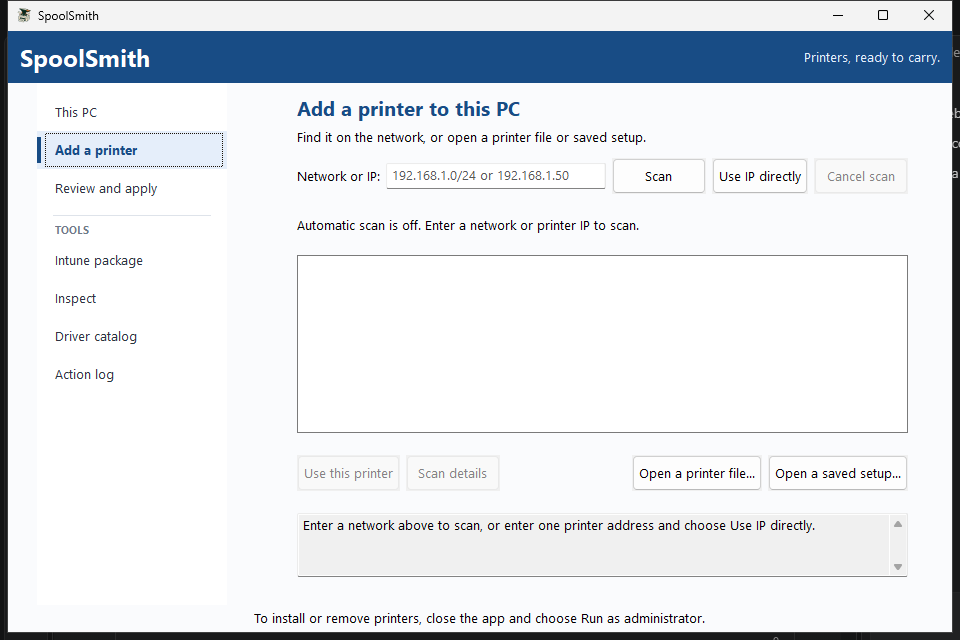
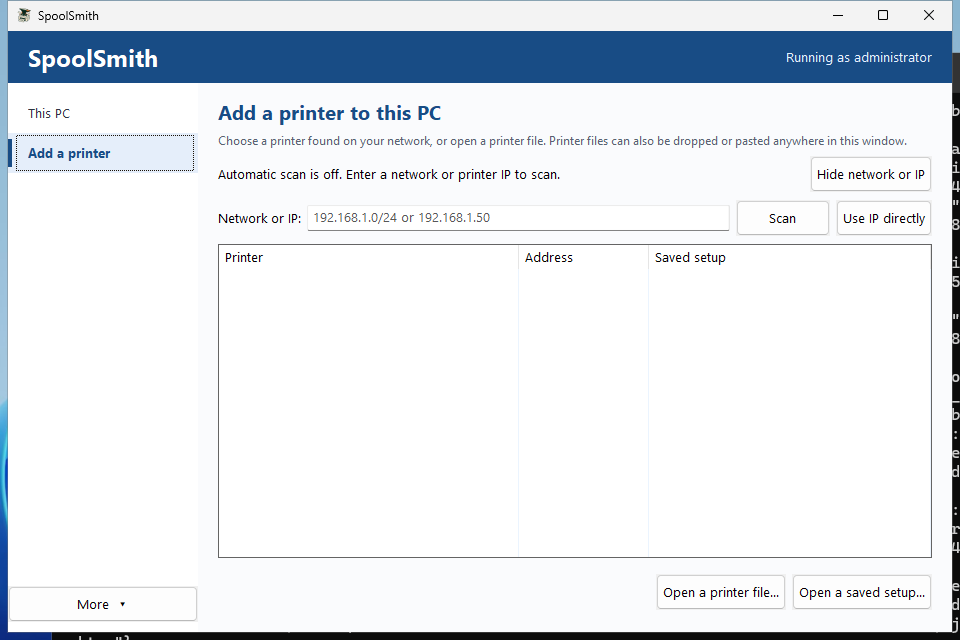
Ship v1.3.0: double-click to install
Release notes, the v1.3.0 validation record (CI desktop suite plus the
operator's hands-on checks), VERSION, and the website: hero, New in 1.3,
the apply sheet as the lead screenshot, refreshed This PC, Add a printer,
Inspect and Intune page captures, and copy that matches the new desktop --
double-click, drop, Ctrl+C/Ctrl+V, the shield button, More.

diff --git a/docs/index.html b/docs/index.html
@@ -5,9 +5,9 @@
   <meta name="viewport" content="width=device-width, initial-scale=1">
   <meta name="description" content="Copy a working printer from one Windows PC to another, or find one on the network and save its settings. SpoolSmith is a command-line tool and desktop app that makes everyday printer mapping repeatable.">
   <meta property="og:title" content="SpoolSmith — A little less printer setup.">
-  <meta property="og:description" content="One PC already prints. Copy that setup to the next one — driver included — after reviewing exactly what will change.">
+  <meta property="og:description" content="One PC already prints. Copy it off as one file, driver included — then double-click it on the next PC, review every step, and confirm once.">
   <meta property="og:url" content="https://spilloid.github.io/spoolsmith/">
-  <meta property="og:image" content="https://spilloid.github.io/spoolsmith/img/gui-this-pc.png">
+  <meta property="og:image" content="https://spilloid.github.io/spoolsmith/img/gui-review-and-apply.png">
   <meta name="theme-color" content="#163d38">
   <link rel="icon" href="favicon.ico" sizes="16x16 32x32 48x48">
   <link rel="icon" type="image/png" href="img/icon-192.png" sizes="192x192">
@@ -27,10 +27,10 @@
       <div class="hero-copy">
         <p class="eyebrow"><span class="status-dot"></span>Printer setup, ready to repeat</p>
         <h1 id="hero-title">A little less<br>printer <em>setup.</em></h1>
-        <p class="hero-lead">One PC already prints.<br>Let the next one copy it.</p>
-        <p class="hero-description">Copy a working printer from one Windows PC to another — driver included — or find one on the network and save its settings. Review the plan before SpoolSmith changes your Windows printers.</p>
-        <div class="actions"><a class="button primary" href="https://github.com/spilloid/spoolsmith/releases/download/v1.2.0/spoolsmith-v1.2.0-windows-amd64.zip">Download for Windows <span aria-hidden="true">↓</span></a><a class="text-link" href="#app">See the app <span aria-hidden="true">↓</span></a></div>
-        <p class="hero-meta">v1.2.0 · Windows x64 · Portable ZIP · Signed · MIT licensed</p><a class="release-link" href="https://github.com/spilloid/spoolsmith/releases/tag/v1.2.0">Release notes &amp; SHA-256 checksum <span aria-hidden="true">↗</span></a>
+        <p class="hero-lead">One PC already prints.<br>Double-click to give it to the next.</p>
+        <p class="hero-description">Copy a working printer off one Windows PC — driver included — as a single file. On the next PC, double-click it, drop it on SpoolSmith or paste it in. You see every step before anything changes, and confirm once.</p>
+        <div class="actions"><a class="button primary" href="https://github.com/spilloid/spoolsmith/releases/download/v1.3.0/spoolsmith-v1.3.0-windows-amd64.zip">Download for Windows <span aria-hidden="true">↓</span></a><a class="text-link" href="#app">See the app <span aria-hidden="true">↓</span></a></div>
+        <p class="hero-meta">v1.3.0 · Windows x64 · Portable ZIP · Signed · MIT licensed</p><a class="release-link" href="https://github.com/spilloid/spoolsmith/releases/tag/v1.3.0">Release notes &amp; SHA-256 checksum <span aria-hidden="true">↗</span></a>
       </div>
       <figure class="printer-scene" aria-label="Illustration: one copied Office Printer bundle can be reused on another workstation.">
         <div class="scene-grid" aria-hidden="true"></div>
@@ -50,54 +50,50 @@
           <circle cx="248" cy="242" r="13" fill="#e1edce"/>
           <path d="m242 241 4 5 8-9" fill="none" stroke="#285645" stroke-width="2.5"/>
         </svg>
-        <div class="saved-card"><span class="file-icon" aria-hidden="true">.ssb</span><div><strong>office-printer.ssb</strong><span>Settings + optional driver files.</span></div><span class="saved-check" aria-hidden="true">✓</span></div>
-        <figcaption><span class="status-dot"></span>Save once. Bring it to the next PC.</figcaption>
+        <div class="saved-card"><span class="file-icon" aria-hidden="true">.ssb</span><div><strong>office-printer.ssb</strong><span>Double-click to install.</span></div><span class="saved-check" aria-hidden="true">✓</span></div>
+        <figcaption><span class="status-dot"></span>Copy it once. Double-click it anywhere.</figcaption>
       </figure>
     </section>
     <div class="proof wrap"><span class="proof-icon" aria-hidden="true">✓</span><p><strong>Tested on real HP and Sharp printers.</strong> Works with any network printer that has a standard Windows driver.</p><a href="#status">What’s supported <span aria-hidden="true">↗</span></a></div>
     <section class="release-summary wrap" aria-labelledby="release-title">
-      <div><p class="eyebrow">New in 1.1</p><h2 id="release-title">A smoother setup.<br>Even before the printer is ready.</h2></div>
-      <ul><li><strong>One printer file, one set.</strong> A .ssb is one printer; a plain .zip of .ssb files carries several. Copy all printers writes one set, and each printer in it is reviewed and confirmed on its own.</li><li><strong>Drivers come along.</strong> Copies include each printer’s driver whenever it can be exported, and say why when it can’t. Choose settings only if you manage drivers yourself.</li><li><strong>Keep moving offline.</strong> Save an unreachable queue, and set up a saved printer before it comes online. The plan says when it fell back to offline setup.</li><li><strong>Clearer choices.</strong> Copying without administrator access still works and saves settings only; the app says when a driver needs elevation.</li><li><strong>Easier to find your way.</strong> A sidebar replaces the desktop’s tabs, Intune packaging has its own page, and its wizard now runs in two clear steps.</li></ul>
+      <div><p class="eyebrow">New in 1.3</p><h2 id="release-title">Double-click to install.<br>Ctrl+C to take it with you.</h2></div>
+      <ul><li><strong>Printer files open like documents.</strong> Double-click a .ssb, drop it on the window or on spoolsmith-gui.exe, or copy it in Explorer and press Ctrl+V. It opens straight onto one review sheet.</li><li><strong>One sheet, every step.</strong> The sheet shows where the printer came from, anything to know first, and the exact steps it will take — prepared the moment it opens. The full plan is one click away under Details.</li><li><strong>Ctrl+C a printer.</strong> Select printers on This PC and press Ctrl+C, then paste the .ssb files into a folder, a share or a chat. Or select several and save them as one set.</li><li><strong>No more “restart as administrator”.</strong> The Install button carries the Windows shield. Windows asks, SpoolSmith reopens on the same printer, and you confirm the plan there.</li><li><strong>Notes for the ticket.</strong> When it finishes, one button copies a plain-text summary of what changed, ready to paste into your ticket.</li><li><strong>Two places, not seven.</strong> The sidebar is This PC and Add a printer. Intune packaging, Inspect, the action log and saved setups sit under More.</li></ul>
     </section>
     <section id="app" class="app-section" aria-labelledby="app-title"><div class="wrap">
-      <div class="section-heading"><div><p class="eyebrow"><span class="status-dot"></span>The desktop app</p><h2 id="app-title">Your printers.<br>Ready to <em>carry.</em></h2></div><p>See what Windows already has, copy a working setup to another PC, or find a new printer. A sidebar lists every page in the order the work happens, with the tools set apart below.</p></div>
+      <div class="section-heading"><div><p class="eyebrow"><span class="status-dot"></span>The desktop app</p><h2 id="app-title">Your printers.<br>Ready to <em>carry.</em></h2></div><p>Two places to go: This PC, to take printers off this computer, and Add a printer, to put them on. Every change opens one review sheet, and nothing happens until you confirm it.</p></div>
       <figure class="shot">
-        <img src="img/gui-this-pc.png" alt="SpoolSmith This PC page. A sidebar lists This PC, Add a printer and Review and apply, then Tools: Intune package, Inspect, Driver catalog and Action log. The printer list is loading, with Copy all printers, Copy to a file, Change address and Remove printer actions." width="960" height="640" loading="lazy" decoding="async">
-        <figcaption><span class="status-dot"></span>Every page one click away. This PC reads Windows’ printers and explains when one cannot be copied.</figcaption>
+        <img src="img/gui-review-and-apply.png" alt="SpoolSmith's apply sheet for a printer file named Front Office Copier: its address and driver, that it was copied from FRONTDESK-01, two notes to know first, and the steps it will take — create port 192.0.2.40 and create the printer. The main button reads Install as administrator with the Windows shield." width="960" height="640" loading="lazy" decoding="async">
+        <figcaption><span class="status-dot"></span>Double-click a printer file and this is what opens: where it came from, what to know, and exactly what will change. One confirmation.</figcaption>
       </figure>
       <div class="shot-grid">
         <figure class="shot">
-          <a href="img/gui-add-printer.png"><img src="img/gui-add-printer.png" alt="Add a printer page with a network or IP field, Scan and Use IP directly buttons, and buttons to open a printer file or a saved setup." width="960" height="640" loading="lazy" decoding="async"></a>
-          <figcaption><h3>Start with the address or the file</h3><p>Scan the network, enter a known IP, or open a printer file. A printer set lists its printers so you can set each one up in turn.</p></figcaption>
+          <a href="img/gui-this-pc.png"><img src="img/gui-this-pc.png" alt="This PC page: a table of the printers Windows has, with columns for printer, address, driver and whether it can be copied. Printers SpoolSmith can't copy are greyed. The sidebar lists This PC and Add a printer, with More below." width="960" height="640" loading="lazy" decoding="async"></a>
+          <figcaption><h3>Take printers off this PC</h3><p>Select one or several and copy them to a file or a set — or press Ctrl+C and paste them into Explorer. Printers that can’t be copied, like Print to PDF, are greyed with the reason.</p></figcaption>
+        </figure>
+        <figure class="shot">
+          <a href="img/gui-add-printer.png"><img src="img/gui-add-printer.png" alt="Add a printer page with a table for printers found on the network, a field for a network or IP address, and buttons to open a printer file or a saved setup." width="960" height="640" loading="lazy" decoding="async"></a>
+          <figcaption><h3>Or find one on the network</h3><p>The network the PC is on is scanned as soon as SpoolSmith starts. Pick a printer, or scan a different network or one address. A printer set opens as a list, and each printer gets its own review.</p></figcaption>
         </figure>
         <figure class="shot">
           <a href="img/gui-saved-setups.png"><img src="img/gui-saved-setups.png" alt="Saved printer setups dialog listing an example setup and its details, with Set up this printer, Update to match, Check status, Remove, Edit, Export all and Import all buttons." width="720" height="420" loading="lazy" decoding="async"></a>
-          <figcaption><h3>Keep a library of setups</h3><p>Set a printer up again, update a queue to match, edit with a backup, or check local status. Export and import the whole library, drivers included, as one .zip set.</p></figcaption>
+          <figcaption><h3>Keep a library of setups</h3><p>Under More: set a printer up again, update a queue to match, edit with a backup, or check local status. Export and import the whole library, drivers included, as one .zip set.</p></figcaption>
         </figure>
         <figure class="shot">
-          <a href="img/gui-review-and-apply.png"><img src="img/gui-review-and-apply.png" alt="Review and apply page, with Apply disabled until a change has been previewed." width="960" height="640" loading="lazy" decoding="async"></a>
-          <figcaption><h3>Review before changing Windows</h3><p>Preview the change, inspect the full plan, then confirm. Changed options invalidate the preview; changed plans are rejected at execution.</p></figcaption>
-        </figure>
-        <figure class="shot">
-          <a href="img/gui-tools.png"><img src="img/gui-tools.png" alt="Inspect page with a field for an IP, fixture or .ssb file, noting that nothing is installed." width="960" height="640" loading="lazy" decoding="async"></a>
-          <figcaption><h3>Keep the evidence close</h3><p>Inspect a printer or verify a copied .ssb without changing Windows. The driver catalog and action log sit beside it under Tools.</p></figcaption>
+          <a href="img/gui-tools.png"><img src="img/gui-tools.png" alt="Inspect page with a field for an IP address, a printer file or a printer set, noting that nothing is installed." width="960" height="640" loading="lazy" decoding="async"></a>
+          <figcaption><h3>Look inside a printer file</h3><p>Inspect a .ssb or a set without applying it: every printer, its driver and where it came from. The action log sits beside it under More.</p></figcaption>
         </figure>
         <figure class="shot">
           <a href="img/gui-intune-wizard.png"><img src="img/gui-intune-page.png" alt="Package a printer for Intune page explaining the local-only packaging, with a Build an Intune printer app button." width="960" height="640" loading="lazy" decoding="async"></a>
           <figcaption><h3>Package it for Intune, locally</h3><p>A two-step wizard: choose the settings, then validate and review before export. It writes install, uninstall and detection scripts, and creates the .intunewin when Microsoft’s IntuneWinAppUtil.exe sits beside SpoolSmith. No tenant sign-in; upload and assignment stay in your hands.</p></figcaption>
-        </figure>
-        <figure class="shot">
-          <a href="img/gui-copy-all.png"><img src="img/gui-copy-all.png" alt="Copy all printers dialog with a Save set as .zip name, an optional note, a checked Include drivers where possible box and a preview of which printers will be copied or skipped and why." width="720" height="480" loading="lazy" decoding="async"></a>
-          <figcaption><h3>Copy every printer at once</h3><p>Save every supported queue into one .zip set, one .ssb per printer, drivers included where possible. Stopping saves nothing; the results copy as plain text into a ticket.</p></figcaption>
         </figure>
       </div>
     </div></section>
     <section id="workflow" class="section wrap" aria-labelledby="workflow-title">
       <div class="section-heading"><div><p class="eyebrow">From this PC to the next</p><h2 id="workflow-title">Three steps.<br>One familiar printer.</h2></div><p>Keep a working setup in a file you control. No account, hosted service, or printer management server required.</p></div>
       <div class="steps">
-        <article><span class="step-number">01 / COPY</span><h3>Start where it works.</h3><p>In <strong>This PC</strong>, select a supported network queue and copy it to an <code>.ssb</code> file. Its driver comes along whenever it can be exported.</p><span class="step-detail">Run as administrator to include driver files</span></article>
-        <article><span class="step-number">02 / OPEN</span><h3>Bring it to the next PC.</h3><p>Move the file and SpoolSmith to the destination. In <strong>Add a printer</strong>, open the copied printer file. The bundle keeps its saved settings and optional driver payload together.</p><span class="step-detail">No installer needed for SpoolSmith itself</span></article>
-        <article><span class="step-number">03 / REVIEW</span><h3>See the plan. Then apply.</h3><p>Review the queue, address and driver before confirming. SpoolSmith reuses matching settings, so applying the same setup again does not create a duplicate queue.</p><span class="step-detail">Administrator access required to apply changes</span></article>
+        <article><span class="step-number">01 / COPY</span><h3>Start where it works.</h3><p>In <strong>This PC</strong>, select a network printer and press <strong>Ctrl+C</strong> — or <strong>Copy 1 printer...</strong> to save it somewhere. Its driver comes along whenever it can be exported.</p><span class="step-detail">Drivers need administrator; without it, settings only, and it says why</span></article>
+        <article><span class="step-number">02 / OPEN</span><h3>Double-click it on the next PC.</h3><p>Paste the <code>.ssb</code> wherever you move files, then double-click it on the destination — or drop it on SpoolSmith, or copy it and press <strong>Ctrl+V</strong> in the app. Settings and driver travel together.</p><span class="step-detail">No installer needed for SpoolSmith itself</span></article>
+        <article><span class="step-number">03 / REVIEW</span><h3>See every step. Confirm once.</h3><p>The sheet lists exactly what will change before anything does. SpoolSmith reuses matching settings, so applying the same setup again does not create a duplicate queue.</p><span class="step-detail">Not administrator? The shield button asks Windows for you</span></article>
       </div>
     </section>
     <section class="repeat-section" aria-labelledby="repeat-title"><div class="wrap repeat-grid">
@@ -105,19 +101,19 @@
       <div class="repeat-example"><div class="example-heading"><span class="status-dot"></span>Example · reapplying a saved profile</div><pre><code><span class="prompt">&gt;</span> .\spoolsmith.exe add --profile profiles\office.ssb</code></pre><div class="result-row"><span>Printer port</span><strong>✓ Unchanged</strong></div><div class="result-row"><span>Office Printer</span><strong>✓ Unchanged</strong></div><p>The same setup, without another queue.</p></div>
     </div></section>
     <section id="start" class="section wrap" aria-labelledby="start-title">
-      <div class="section-heading"><div><p class="eyebrow">Start with one printer</p><h2 id="start-title">Make the next setup easier.</h2></div><p>Run the desktop app, or the same operations from PowerShell. The v1.2.0 Windows download includes both the desktop app and the command-line tool.</p></div>
+      <div class="section-heading"><div><p class="eyebrow">Start with one printer</p><h2 id="start-title">Make the next setup easier.</h2></div><p>Run the desktop app, or the same operations from PowerShell. The v1.3.0 Windows download includes both the desktop app and the command-line tool.</p></div>
       <div class="start-grid">
-        <aside class="get-app"><span class="small-label">01 / GET SPOOLSMITH</span><h3>A small Windows tool.<br>Your own printer library.</h3><p>Download the Windows ZIP and extract it. Open spoolsmith-gui.exe for the desktop, or use spoolsmith.exe from PowerShell.</p><a class="button primary" href="https://github.com/spilloid/spoolsmith/releases/download/v1.2.0/spoolsmith-v1.2.0-windows-amd64.zip">Download for Windows <span aria-hidden="true">↗</span></a><a class="text-link" href="https://github.com/spilloid/spoolsmith/releases">Browse releases <span aria-hidden="true">↗</span></a><div class="requirements"><strong>Before you add a printer</strong><p>Run as administrator to apply changes. A saved printer file also works when the printer is temporarily unreachable. Use a driver already installed on this PC, or a printer file that carries its driver. SpoolSmith does not download drivers.</p></div></aside>
+        <aside class="get-app"><span class="small-label">01 / GET SPOOLSMITH</span><h3>A small Windows tool.<br>Your own printer library.</h3><p>Download the Windows ZIP and extract it. Open spoolsmith-gui.exe for the desktop, or use spoolsmith.exe from PowerShell.</p><a class="button primary" href="https://github.com/spilloid/spoolsmith/releases/download/v1.3.0/spoolsmith-v1.3.0-windows-amd64.zip">Download for Windows <span aria-hidden="true">↗</span></a><a class="text-link" href="https://github.com/spilloid/spoolsmith/releases">Browse releases <span aria-hidden="true">↗</span></a><div class="requirements"><strong>Before you add a printer</strong><p>Changing Windows printers needs administrator rights; the Install button asks Windows for them when you need to. A saved printer file also works when the printer is temporarily unreachable. Use a driver already installed on this PC, or a printer file that carries its driver. SpoolSmith does not download drivers.</p></div></aside>
         <div class="quickstart"><span class="small-label">02 / CHOOSE YOUR STARTING POINT</span>
           <div class="tabs" role="tablist" aria-label="Printer setup starting point"><button id="tab-copy" role="tab" aria-controls="panel-copy" aria-selected="true" tabindex="0">Copy a printer</button><button id="tab-app" role="tab" aria-controls="panel-app" aria-selected="false" tabindex="-1">Desktop app</button><button id="tab-ip" role="tab" aria-controls="panel-ip" aria-selected="false" tabindex="-1">I know the IP</button><button id="tab-discover" role="tab" aria-controls="panel-discover" aria-selected="false" tabindex="-1">Find a printer</button><button id="tab-saved" role="tab" aria-controls="panel-saved" aria-selected="false" tabindex="-1">I have a printer file</button></div>
-          <div id="panel-copy" role="tabpanel" aria-labelledby="tab-copy" tabindex="0"><h3>One PC has it. Give it to the next.</h3><ol class="setup-list"><li>Extract the Windows ZIP on both PCs. On the source PC, open <strong>spoolsmith-gui.exe</strong> as administrator so its driver can be included.</li><li>In <strong>This PC</strong>, select a copyable queue and copy it to a printer file. The driver is included where possible; clear the box for settings only.</li><li>Transfer the <code>.ssb</code> file. On the destination PC, run the app as administrator and open the file from <strong>Add a printer</strong>.</li><li>Choose <strong>Preview changes</strong>, review the plan, and confirm the setup.</li></ol><p class="panel-note">Several printers? <strong>Copy all printers</strong> saves one .zip set; open it on the other PC and review each printer in turn. The live check compares reported model evidence with the capture; it does not authenticate a unique device. If the printer cannot be reached or its identity cannot be confirmed, the plan reports offline fallback. A conflicting identity still stops setup.</p><details class="cli-details"><summary>Prefer PowerShell?</summary><div class="code-block"><button class="copy" type="button" aria-label="Copy source PC commands">Copy</button><pre><code># On the source PC, as administrator (the driver is included when it can be)
+          <div id="panel-copy" role="tabpanel" aria-labelledby="tab-copy" tabindex="0"><h3>One PC has it. Give it to the next.</h3><ol class="setup-list"><li>Extract the Windows ZIP on both PCs. On the source PC, open <strong>spoolsmith-gui.exe</strong> as administrator so the driver can be included.</li><li>In <strong>This PC</strong>, select the printer and press <strong>Ctrl+C</strong>, then paste the <code>.ssb</code> into a folder, a share or a chat. Or choose <strong>Copy 1 printer...</strong> to save it.</li><li>On the destination PC, double-click the <code>.ssb</code> (SpoolSmith offers to open them on first run), drop it on <strong>spoolsmith-gui.exe</strong>, or paste it into the app with <strong>Ctrl+V</strong>.</li><li>Review the steps on the sheet and choose <strong>Install</strong>. Not running as administrator? Windows asks first, then you confirm the same plan.</li></ol><p class="panel-note">Several printers? Select them all and choose <strong>Copy N printers...</strong> for one .zip set; open it on the other PC and review each printer in turn. The live check compares reported model evidence with the capture; it does not authenticate a unique device. If the printer cannot be reached or its identity cannot be confirmed, the plan reports offline fallback. A conflicting identity still stops setup.</p><details class="cli-details"><summary>Prefer PowerShell?</summary><div class="code-block"><button class="copy" type="button" aria-label="Copy source PC commands">Copy</button><pre><code># On the source PC, as administrator (the driver is included when it can be)
 .\spoolsmith.exe printers
 .\spoolsmith.exe copy "Accounting" accounting.ssb
 .\spoolsmith.exe copy --all printers.zip</code></pre></div><div class="code-block"><button class="copy" type="button" aria-label="Copy destination PC commands">Copy</button><pre><code># On the destination PC, as administrator
 .\spoolsmith.exe apply accounting.ssb --dry-run
 .\spoolsmith.exe apply accounting.ssb
 .\spoolsmith.exe apply printers.zip</code></pre></div></details></div>
-          <div id="panel-app" role="tabpanel" aria-labelledby="tab-app" tabindex="0" hidden><h3>Download. Extract. Open.</h3><p>The Windows ZIP includes two executables. Open <strong>spoolsmith-gui.exe</strong> for the desktop app; <strong>spoolsmith.exe</strong> is the command-line tool. No Go installation or build step is needed.</p><p>Explore installed printers, discover devices and save profiles as a standard user. Close and reopen the app with <strong>Run as administrator</strong> before applying Windows changes or copying driver files.</p><p class="panel-note">Keep the extracted app in a writable folder. Saved setups live in its profiles folder by default; use “Open another folder” to work with a different library.</p></div>
+          <div id="panel-app" role="tabpanel" aria-labelledby="tab-app" tabindex="0" hidden><h3>Download. Extract. Open.</h3><p>The Windows ZIP includes two executables. Open <strong>spoolsmith-gui.exe</strong> for the desktop app; <strong>spoolsmith.exe</strong> is the command-line tool. No Go installation or build step is needed.</p><p>Explore installed printers, discover devices and save profiles as a standard user. To change Windows printers, use the button with the Windows shield: Windows asks for permission and SpoolSmith reopens on the same printer. Open the app as administrator from the start if you want to copy driver files.</p><p class="panel-note">Keep the extracted app in a writable folder. Saved setups live in its profiles folder by default; use “Open another folder” to work with a different library.</p></div>
           <div id="panel-ip" role="tabpanel" aria-labelledby="tab-ip" tabindex="0" hidden><h3>Capture it once. Keep it handy.</h3><p>Replace the example IP and driver name with yours. To find the driver’s exact name, run <code>Get-PrinterDriver | Select-Object Name</code>.</p><div class="code-block"><button class="copy" type="button" aria-label="Copy known-IP commands">Copy</button><pre><code>.\spoolsmith.exe profile capture 192.168.1.50 profiles\office.ssb --name "Office Printer" --driver "EXACT WINDOWS DRIVER NAME"
 
 .\spoolsmith.exe add --profile profiles\office.ssb --dry-run
@@ -133,15 +129,15 @@
     <section id="files" class="section wrap files-section" aria-labelledby="files-title">
       <p class="eyebrow">One printer file, everywhere</p><h2 id="files-title">Carry a printer. Or keep a library.</h2>
       <div class="file-grid">
-        <article><span class="file-kind">.ssb</span><h3>A copied printer</h3><p>One queue’s settings, captured model evidence and optional driver files. Open it from <strong>Add a printer</strong> on the next PC.</p></article>
+        <article><span class="file-kind">.ssb</span><h3>A copied printer</h3><p>One queue’s settings, captured model evidence and optional driver files. Double-click it, drop it or paste it on the next PC.</p></article>
         <article><span class="file-kind">office.ssb</span><h3>The same file, saved for later</h3><p>Captured directly or copied from Windows, every saved printer uses the same .ssb format. Reuse, edit or check it from <strong>Saved printer setups</strong>.</p></article>
-        <article><span class="file-kind">printers.zip</span><h3>Several printers, one set</h3><p>A plain .zip of .ssb files, one per printer, drivers and all. <strong>Copy all printers</strong> and <strong>Export all</strong> make one; so does zipping .ssb files yourself. Each printer in a set is still reviewed and confirmed on its own.</p></article>
+        <article><span class="file-kind">printers.zip</span><h3>Several printers, one set</h3><p>A plain .zip of .ssb files, one per printer, drivers and all. <strong>Copy N printers</strong> and <strong>Export all</strong> make one; so does zipping .ssb files yourself. Each printer in a set is still reviewed and confirmed on its own.</p></article>
       </div>
     </section>
     <section id="status" class="section wrap status-section" aria-labelledby="status-title"><div><p class="eyebrow">Know what fits</p><h2 id="status-title">Made for Windows.<br>Clear about its limits.</h2><p>SpoolSmith is an early, portable tool for repeatable network printer setup. Start with one known printer and validate its output.</p><a class="text-link" href="https://github.com/spilloid/spoolsmith/blob/main/docs/roadmap.md">What remains &amp; validation priorities <span aria-hidden="true">↗</span></a></div><div class="status-list">
       <article><span class="tag">Supported workflow</span><h3>Windows x64 · RAW TCP 9100</h3><p>Requires the Windows Print Spooler and PrintManagement cmdlets. Copy supported TCP/IP queues, use a saved profile with a compatible Windows driver, or discover IPv4 candidates. USB queues, shared queues, IPP and LPR setup are outside the current workflow.</p></article>
       <article><span class="tag">Hardware evidence</span><h3>HP, Sharp, and any standard driver</h3><p>Tested with multiple HP and Sharp network printers. SpoolSmith copies the Windows queue and its driver rather than relying on a model list, so any network printer with a standard Windows driver, including Canon and other brands, is set up the same way. A true two-PC transfer and a live address change still need validation on real hardware.</p></article>
-      <article><span class="tag">Desktop &amp; command line</span><h3>One workflow, two ways to work</h3><p>The Windows download includes desktop copy/apply for single printers and printer sets, address changes, profile editing, local status, saved-setup transfer and offline setup. The screenshots show the real Windows app. Copying and applying work with any brand. Identifying a printer by IP alone, without a saved file, uses a small built-in catalog.</p></article>
+      <article><span class="tag">Desktop &amp; command line</span><h3>One workflow, two ways to work</h3><p>The Windows download includes desktop copy/apply for single printers and printer sets, address changes, profile editing, local status, saved-setup transfer and offline setup. The screenshots show the real Windows app. Copying and applying work with any brand, because SpoolSmith copies the setup that already works rather than looking the printer up in a model list.</p></article>
       <article><span class="tag">Local deployment</span><h3>Package a printer for Intune</h3><p>Turn a validated profile into a reviewable Win32 app — install/uninstall/detect scripts and the exact commands to paste into Intune — from the CLI or the desktop wizard, and create the .intunewin too when Microsoft's IntuneWinAppUtil.exe sits beside SpoolSmith. Entirely local: no tenant sign-in, no upload, no assignment. Uploading and assigning the package in Intune stays a manual step. <a class="text-link" href="https://github.com/spilloid/spoolsmith/blob/main/docs/intune-deployment.md">How it works <span aria-hidden="true">↗</span></a></p></article>
       <article><span class="tag next">Not in this release</span><h3>Automatic driver downloads</h3><p>SpoolSmith does not fetch OEM drivers automatically — bring a compatible installed driver, a copied bundle with driver files, or a supported local archive. The download is a portable ZIP; both executables are Authenticode-signed, so Windows shows a named publisher instead of an unknown one.</p></article>
     </div></section>
@@ -149,19 +145,19 @@
       <div class="guide-grid">
         <a href="https://github.com/spilloid/spoolsmith/blob/main/docs/copy-a-printer.md"><span class="small-label">Workflow guide</span><h3>Copy your first printer <span aria-hidden="true">↗</span></h3><p>Bundle a working queue, bring its driver and apply the saved setup.</p></a>
         <a href="https://github.com/spilloid/spoolsmith/blob/main/README.md"><span class="small-label">Reference</span><h3>Desktop &amp; CLI guide <span aria-hidden="true">↗</span></h3><p>Discovery, profiles, offline setup, local status and advanced options.</p></a>
-        <a href="https://github.com/spilloid/spoolsmith/blob/main/docs/validation/2026-09-23-v1.1.0.md"><span class="small-label">Release evidence</span><h3>See what was checked <span aria-hidden="true">↗</span></h3><p>Native Windows checks, release verification and known limits.</p></a>
+        <a href="https://github.com/spilloid/spoolsmith/blob/main/docs/validation/2026-09-24-v1.3.0.md"><span class="small-label">Release evidence</span><h3>See what was checked <span aria-hidden="true">↗</span></h3><p>Native Windows checks, release verification and known limits.</p></a>
         <a href="https://github.com/spilloid/spoolsmith/blob/main/docs/intune-deployment.md"><span class="small-label">Deployment guide</span><h3>Package for Intune <span aria-hidden="true">↗</span></h3><p>Export a reviewable Win32 app from a validated profile, CLI or desktop.</p></a>
       </div>
     </section>
     <section class="section wrap faq-section" aria-labelledby="faq-title"><p class="eyebrow">Before the next printer call</p><h2 id="faq-title">A few practical answers.</h2>
       <details><summary>What happens to my older JSON setups?</summary><p>Version 1.1 uses .ssb files for every saved printer. Existing .ssb bundles still work. Older JSON profiles and JSON library exports must be recreated: copy an installed queue, or capture its address and driver into a new .ssb. Keep the originals for reference; renaming .json to .ssb does not convert it.</p></details>
-      <details><summary>Do I need administrator access?</summary><p>You can discover printers, inspect settings and save profiles without elevation. Run SpoolSmith as administrator to change Windows printers or export driver files. The app does not restart itself with elevated permissions.</p></details>
+      <details><summary>Do I need administrator access?</summary><p>You can discover printers, inspect files and save profiles without elevation. Changing Windows printers needs administrator rights: in the desktop app, the Install button carries the Windows shield. Only when you press it does Windows ask for permission; SpoolSmith then reopens elevated on the same printer, prepares the plan again and asks you to confirm it. Copying driver files also needs administrator, so open the app that way on the source PC. The command-line tool never elevates itself.</p></details>
       <details><summary>Can I set up a printer before it is on the network?</summary><p>Yes. Open a saved printer file with a compatible driver available. If the printer is unreachable or its identity cannot be confirmed, setup falls back to offline and explains that in the plan before you confirm. You can also choose offline setup directly. A live identity conflict still stops setup. Local status checks Windows settings, not physical printing.</p></details>
       <details><summary>Will this replace an existing printer?</summary><p>Matching settings are reused. Conflicting settings stop a normal add; use an explicit update after reviewing the new plan. Shared ports and drivers are retained on removal. If an operation is interrupted, an unused port can remain.</p></details>
       <details><summary>Does a printer set include drivers?</summary><p>Yes, whenever each printer’s .ssb carries one. Copies include the driver where it can be exported (as administrator); a printer copied without it says why, and the other PC then needs that driver installed. A separate vendor archive referenced by a saved setup is not embedded: copy it too and keep its relative path.</p></details><details><summary>Is a driver from another PC safe to install?</summary><p>SpoolSmith checks every driver file against the hashes recorded when it was copied, and Windows checks the driver’s signature before staging it. A driver that fails either check is not installed. The hashes catch corruption and edits, not a compromised source PC, so trust a copied driver as much as the PC it came from. Choose settings only if you’d rather install drivers yourself.</p></details>
       <details><summary>Will a copied driver install on a brand-new PC?</summary><p>Yes, without importing certificates by hand. Windows can refuse a correctly signed driver because it has never been told to trust that publisher. When the driver’s catalog signature is valid, SpoolSmith adds that exact signer certificate to the PC’s Trusted Publishers store before installing, and says so in the plan you confirm. Certificates only ever come from a signature Windows itself validates, never from the printer file, and nothing is added to the Root store. Unsigned drivers are left for Windows to accept or refuse.</p></details>
     </section>
-    <section class="closing wrap"><p class="eyebrow">Yours to keep, inspect, and improve</p><h2>A few saved printers today.<br>A shorter setup tomorrow.</h2><p>Free, MIT-licensed software for people who do the printer setup.</p><a class="button primary" href="https://github.com/spilloid/spoolsmith/releases/download/v1.2.0/spoolsmith-v1.2.0-windows-amd64.zip">Download SpoolSmith v1.2.0 <span aria-hidden="true">↓</span></a></section>
+    <section class="closing wrap"><p class="eyebrow">Yours to keep, inspect, and improve</p><h2>A few saved printers today.<br>A shorter setup tomorrow.</h2><p>Free, MIT-licensed software for people who do the printer setup.</p><a class="button primary" href="https://github.com/spilloid/spoolsmith/releases/download/v1.3.0/spoolsmith-v1.3.0-windows-amd64.zip">Download SpoolSmith v1.3.0 <span aria-hidden="true">↓</span></a></section>
   </main>
   <footer class="wrap"><a class="brand" href="#">SpoolSmith<span class="brand-dot">.</span></a><span>A Spillers Technology project</span><div><a href="https://github.com/spilloid/spoolsmith">Source</a><a href="https://github.com/spilloid/spoolsmith/issues">Feedback</a><a href="https://github.com/spilloid/spoolsmith/blob/main/LICENSE">MIT license</a></div></footer>
 </body>

diff --git a/docs/validation/2026-09-24-v1.3.0.md b/docs/validation/2026-09-24-v1.3.0.md
@@ -1,0 +1,67 @@
+# v1.3.0 desktop redesign validation
+
+Date: September 24, 2026. Hosts: the operator's Windows 11 x64 workstation, and
+the hosted Windows runner used by the Desktop validation workflow (elevated).
+
+## Scope
+
+The desktop redesign in `docs/v1.3-gui-spec.md`: the apply sheet replacing the
+Review and apply page, This PC as a multi-select table, the two-page sidebar
+with More, printer files arriving by `.ssb` association, command line, drag and
+drop, Ctrl+V and forwarding to an open window, Ctrl+C to the clipboard, the
+operator-clicked elevated relaunch, copy notes for the ticket, removal of the
+driver catalog from the desktop, and pending-deprecation notices on the
+catalog-driven CLI commands. The apply engine, plan, plan hash and single
+confirmation are unchanged.
+
+## Checks completed
+
+- `go build ./...`, `go vet ./...` and `go test ./...` on Windows; `GOOS=linux`
+  build and vet. New unit tests cover the plan checklist (each line bound to the
+  command that actually ran), ticket notes, the elevated hand-over argument
+  (re-validated, never an approval), argument quoting, the association command,
+  clipboard folder expiry, printer-file filtering, `bundle.AllOptions.Only`, and
+  the CLI deprecation notices (stderr only; stdout and JSON unchanged).
+- Clipboard round trip in Explorer's file-drop format (CF_HDROP), including a
+  non-ASCII file name. Runs in CI only, because it replaces the clipboard.
+- Desktop validation workflow: 34 of 34 FlaUI tests passed on the final commit,
+  including new tests for the sidebar and More menu, a printer file on the
+  command line opening the sheet, leaving the sheet, pasting a file copied in
+  Explorer, saved setups opening the sheet for each operation, and captions
+  fitting at default and minimum window size on every page and the sheet.
+- The first desktop runs found real defects, fixed before release: More options
+  could not be opened while a preview was being prepared; controls declared
+  hidden were shown until first toggled; loading the sheet's options started a
+  preview with only some of them applied; status labels were cut short; and the
+  main window opened several screens tall (also true of v1.2.0).
+- The new paste test found that no keyboard shortcut had ever fired: walk only
+  consults shortcut actions when the focused control is itself a form. Ctrl+C,
+  Ctrl+V and Ctrl+A are now handled for the whole main window.
+
+## Operator checks on real hardware
+
+On the operator's workstation, not elevated unless noted, with the preview build:
+
+- Ctrl+C on This PC produced a 9.5 MB `.ssb` of a network printer with its
+  driver included; Ctrl+V of printer files opened the apply sheet. The operator
+  reported both working.
+- The Intune wizard produced two complete packages for the example printer,
+  including the `.intunewin` from Microsoft's Content Prep tool.
+- The apply sheet opened from a printer file on the command line, showed the
+  plan and the shield button, and did not change Windows.
+
+## Not yet exercised
+
+- Applying a copied printer on a second, clean PC through the elevated relaunch
+  (accepting and declining the UAC prompt) and printing a page.
+- Double-clicking a `.ssb` through the association, and dropping a file onto the
+  exe from Explorer, on real hardware (the command-line path they use is tested).
+- Forwarding a second double-click to an elevated window.
+
+## Screenshots
+
+`docs/img` screenshots come from the Desktop validation run on the final commit,
+except the apply sheet, which is an unelevated capture of a neutral demo file
+(`Front Office Copier`, Microsoft PCL6 Class Driver, 192.0.2.40) so it shows the
+plan and the shield button rather than the runner's elevated error for a driver
+it doesn't have. The Intune wizard images are unchanged from v1.1.0.

diff --git a/releases/v1.3.0.md b/releases/v1.3.0.md
@@ -1,0 +1,61 @@
+# v1.3.0 — Double-click to install
+
+**A printer file now opens like a document.** Double-click a `.ssb`, drop it on
+the SpoolSmith window or on `spoolsmith-gui.exe`, or copy it in Explorer and
+press **Ctrl+V** in the app. It opens straight onto one review sheet: the
+printer, where the file came from, anything to know first, and the exact steps
+SpoolSmith will take. Nothing changes until you confirm, once.
+
+## Desktop
+
+- **The apply sheet** replaces the Review and apply page. It opens for every
+  change — a printer file, a printer found on the network, a saved setup, or
+  Remove and Change address on This PC — and prepares its preview as soon as it
+  opens. **Details** shows the full plan; **More options** holds offline setup,
+  updating an existing queue and, for removals, removing the driver.
+- **No more "close the app and run as administrator".** If SpoolSmith isn't
+  elevated, the Install button carries the Windows shield. Press it and Windows
+  asks for permission; SpoolSmith reopens on the same printer, prepares the plan
+  again and asks you to confirm it there. Say no and nothing changes.
+- **Copy notes for the ticket.** When a change finishes, the sheet shows each
+  step's result, and one button copies a plain-text summary to the clipboard.
+- **This PC is a table.** Select one or several printers and choose **Copy 1
+  printer...** or **Copy N printers...** (several make one `.zip` set), or press
+  **Ctrl+C** and paste the `.ssb` files into a folder, a share or a chat.
+  Ctrl+A selects every printer that can be copied. Printers SpoolSmith can't
+  copy are greyed, with the reason.
+- **Open `.ssb` files with SpoolSmith.** On first run the app offers to open
+  printer files when you double-click them, for your Windows account only. Turn
+  it on or off under **More**. A second double-click while SpoolSmith is open
+  goes to the window that's already open.
+- **Two places, not seven.** The sidebar is **This PC** and **Add a printer**.
+  Intune packaging, Inspect, the action log and saved setups are under **More**.
+- **Add a printer** lists the printers on the network the PC is connected to,
+  scanned at startup. A different network or a single address is one click away.
+- The window opens at its intended size (earlier versions could open several
+  screens tall), with the sidebar flush to the edge.
+
+## The driver catalog is being retired
+
+SpoolSmith copies a printer that already works; it doesn't need to look your
+printer up in a model list. The desktop no longer offers the driver catalog,
+"Use catalog identification instead...", or the printer-family override.
+
+On the command line, `catalog probe`, `catalog families` and catalog-driven
+`install <ip>` (with `--force-family`) still work in this release but print a
+notice that they are **pending deprecation** and will be removed in a future
+build. The notice goes to stderr; stdout and `--json` output are unchanged.
+`install --profile` is not affected. Use `copy` and `apply` instead.
+
+## Notes
+
+- Nothing about the plan, its fingerprint (`--plan-hash`) or the confirmation
+  changed. The CLI still refuses to change Windows unless it's already running
+  as administrator; only the desktop offers to elevate, and only when you press
+  the shield button.
+- The `.ssb` format is unchanged (version 1). Printer files and sets from v1.1
+  and v1.2 open as before.
+- The `.ssb` association is stored under your user account
+  (`HKCU\Software\Classes`), never machine-wide, and never for `.zip`.
+- Ctrl+C writes printer files to a SpoolSmith folder under your temp directory
+  so they stay available to paste; copies older than a day are cleaned up.

diff --git a/docs/roadmap.md b/docs/roadmap.md
@@ -1,6 +1,6 @@
 # Remaining work for SpoolSmith
 
-Updated September 23, 2026. The v1.1.0 release makes `.ssb` the one printer file
+Updated September 24, 2026. v1.3.0 rebuilt the desktop around copying a printer off one PC and double-clicking it onto the next (see `docs/v1.3-gui-spec.md`). The v1.1.0 release makes `.ssb` the one printer file
 and a plain `.zip` of `.ssb` files the one multi-printer set (`copy --all`, `apply`,
 saved-setup export/import), includes drivers by default wherever they can be
 exported, adds automatic offline fallback, replaces the desktop's tab strips with
